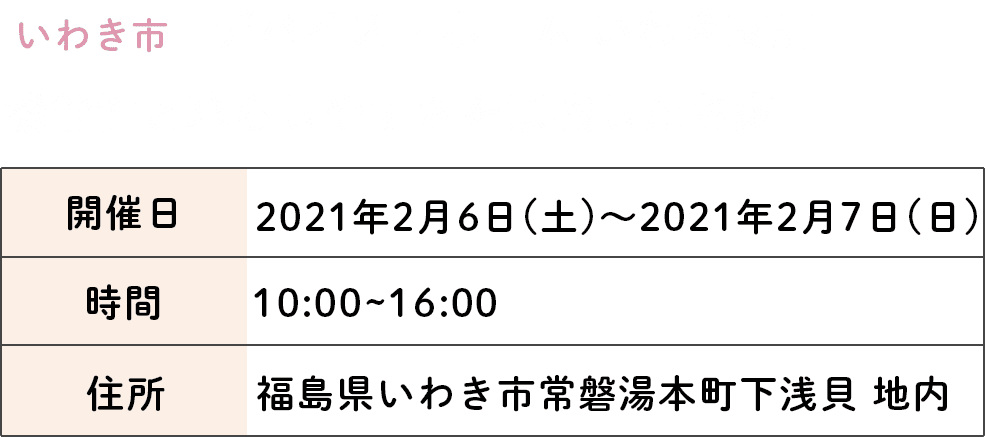
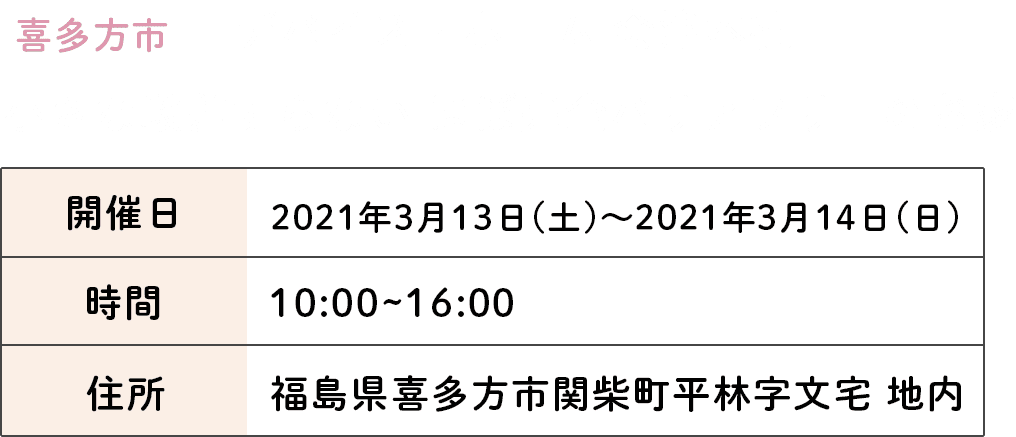
会津用に変更

diff --git a/index.html b/index.html
@@ -114,7 +114,7 @@
 
         <div class="map">
           <iframe
-            src="https://www.google.com/maps/embed?pb=!1m18!1m12!1m3!1d796.5245959432789!2d140.85386508812553!3d37.00744919873801!2m3!1f0!2f0!3f0!3m2!1i1024!2i768!4f13.1!3m3!1m2!1s0x0%3A0x0!2zMzfCsDAwJzI2LjgiTiAxNDDCsDUxJzE1LjkiRQ!5e0!3m2!1sja!2sjp!4v1611909305733!5m2!1sja!2sjp"
+            src="https://www.google.com/maps/embed?pb=!1m18!1m12!1m3!1d3158.5218302495377!2d139.90172801531418!3d37.6604443797805!2m3!1f0!2f0!3f0!3m2!1i1024!2i768!4f13.1!3m3!1m2!1s0x0%3A0x0!2zMzfCsDM5JzM3LjYiTiAxMznCsDU0JzE0LjEiRQ!5e0!3m2!1sja!2sjp!4v1614992400258!5m2!1sja!2sjp"
             width="90%"
             height="332px"
             frameborder="0"
@@ -213,7 +213,7 @@
         </div>
         <div class="map">
           <iframe
-            src="https://www.google.com/maps/embed?pb=!1m18!1m12!1m3!1d796.5245959432789!2d140.85386508812553!3d37.00744919873801!2m3!1f0!2f0!3f0!3m2!1i1024!2i768!4f13.1!3m3!1m2!1s0x0%3A0x0!2zMzfCsDAwJzI2LjgiTiAxNDDCsDUxJzE1LjkiRQ!5e0!3m2!1sja!2sjp!4v1611909305733!5m2!1sja!2sjp"
+            src="https://www.google.com/maps/embed?pb=!1m18!1m12!1m3!1d3158.5218302495377!2d139.90172801531418!3d37.6604443797805!2m3!1f0!2f0!3f0!3m2!1i1024!2i768!4f13.1!3m3!1m2!1s0x0%3A0x0!2zMzfCsDM5JzM3LjYiTiAxMznCsDU0JzE0LjEiRQ!5e0!3m2!1sja!2sjp!4v1614992400258!5m2!1sja!2sjp"
             width="90%"
             height="332px"
             frameborder="0"

diff --git a/forms/mail.php b/forms/mail.php
@@ -60,7 +60,7 @@
 	$content .= "　E-mail：info@luckydakara.com\r\n";
 	$content .= "━━━━━━━━━━━━━━━━━━━━━━━━━━\r\n";
 
-	$sub2 = $name . "様　2/6~7いわき見学会LPよりお問い合わせがありました。";
+	$sub2 = "[3/13~14会津見学会LP おうち見学会ver]" . $name."様よりお問い合わせがありました。";
 	$content2 = "";
 	$content2 .= "お問い合わせがありました。\r\n";
 	$content2 .= "お問い合わせ内容は下記通りです。\r\n";
@@ -68,7 +68,7 @@
 	$content2 .= "お名前       " . $name."\r\n";
 	$content2 .= "メールアドレス   " . $email."\r\n";
 	$content2 .= "電話番号   " . $tel."\r\n";
-	$content2 .= "希望の見学方法：".$type."\r\n";
+	$content2 .= "希望の見学方法：" . $type."\r\n";
 	$content2 .= "お問い合わせ内容   " . $message."\r\n";
 	$content2 .= "お問い合わせ日時   " . $datetime."\r\n";
 	$content2 .= "================================="."\r\n";
